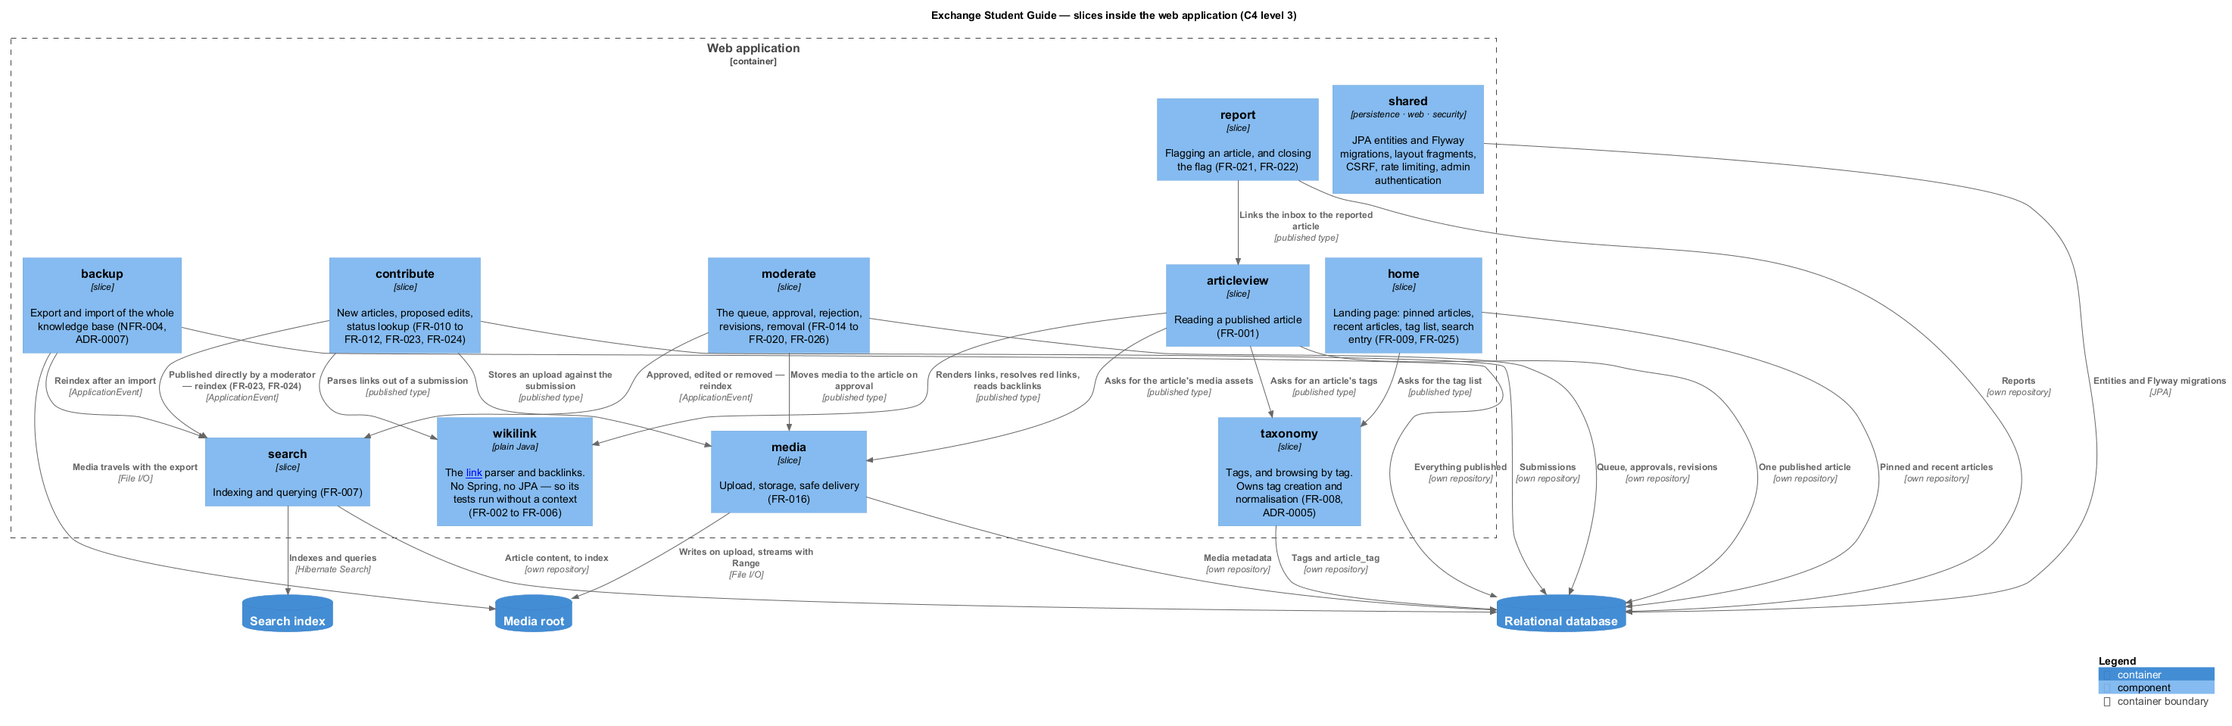
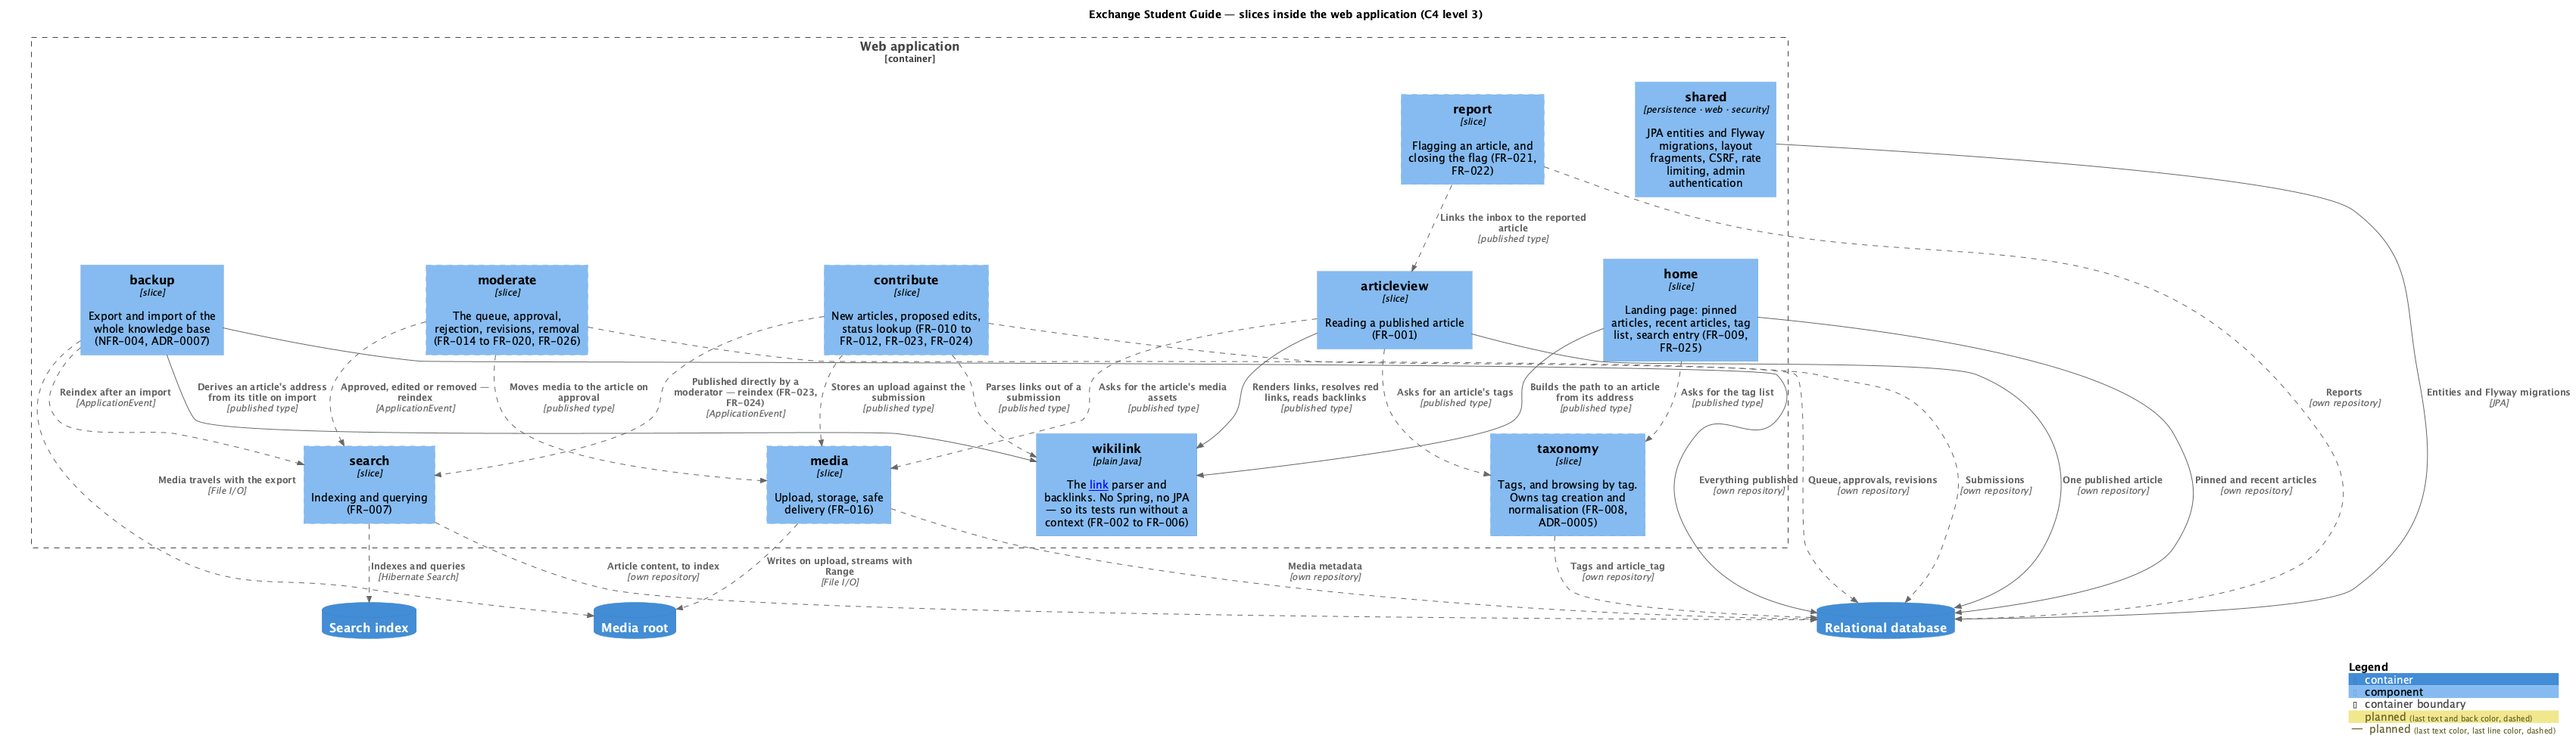
docs: draw the slices as the code has them beside the designed diagram
The designed c4-component gains the two arrows it lacked and draws what is not built
yet dashed. overview.md, the diagrams README and a dated paragraph in rubric.md say
what changed since 11 September; the rubric checkbox is left to the human.

diff --git a/docs/architecture/overview.md b/docs/architecture/overview.md
@@ -70,6 +70,15 @@ the security settings it must run with are in [security.md](security.md), "Artic
 
 ![Slices](../diagrams/out/c4-component.svg)
 
+Dashed boxes and arrows are designed and not built yet. What the code has today is drawn by the code
+itself, from the imports between slices, and rendered beside the designed one:
+
+![Slices as the code has them](../diagrams/out/c4-component-actual.svg)
+
+`home`, `articleview` and `backup` each use a published type of `wikilink` (`ArticleAddress`,
+`WikiLinkRenderer`), and `backup` also uses `shared`. `ModularityTest` writes that diagram and checks
+those three arrows are in it, so it cannot drift from the code without a test failing.
+
 Ten vertical slices plus `shared`. The list is owned by
 [architecture-rules.md](../ai/architecture-rules.md); the decision to structure the application this
 way, and the two alternatives weighed against it, are in
@@ -78,9 +87,10 @@ way, and the two alternatives weighed against it, are in
 **Declared in code since 10 September, and verified by the build.** Each of the eleven is a package
 under `in.ac.iitm.guide` carrying a `package-info.java`, which is all Spring Modulith needs to treat
 it as an application module — so the diagram above and the module list the build sees are the same
-list, and a slice added to one without the other fails a test. The packages are otherwise **empty**:
-this declares the boundary, it does not implement a slice. The first working slice is phase 2's
-first step ([02-skeleton.md](../roadmap/02-skeleton.md)).
+list, and a slice added to one without the other fails a test. On 10 September the packages were
+otherwise **empty**; since 25 September `home`, `articleview`, `wikilink` and `backup` have code,
+and the other six slices (`search`, `taxonomy`, `contribute`, `moderate`, `media`, `report`) stay
+empty until phase 3 ([02-skeleton.md](../roadmap/02-skeleton.md)).
 
 Worth stating because the alternative is the usual one: before this, `ModularityTest` called
 `ApplicationModules.of(...).verify()` against an application with no modules at all. It passed —

diff --git a/docs/course/rubric.md b/docs/course/rubric.md
@@ -55,6 +55,15 @@ slices exists yet to be described or enforced. The C4 level-3 figure is generate
 draw eleven boxes and no arrows. The row goes to `[x]` when the first two slices talk to each other
 through a published type, in phase 2 or 3, and the diagram can be regenerated from the code.
 
+**As of 26 September, both conditions hold in the repository.** `home`, `articleview` and `backup`
+import published types of `wikilink`, and `ModularityTest` passes with those imports. The same test
+now asks Modulith's `Documenter` for the component diagram and asserts that the three arrows are in
+it; `scripts/diagrams.sh` renders it as `docs/diagrams/out/c4-component-actual`. The designed
+`c4-component` figure marks what is not built yet as dashed and carries the two arrows it lacked.
+What has not changed is the submitted [design-doc.pdf](design-doc.pdf): it was built on 10 September
+and still shows the earlier figure and the empty packages, so the checkbox above stays the human's
+to move, with the repository as the evidence and the PDF as the record of what was handed in.
+
 ## Mid-demo — 5 marks (due 9 Oct 2026)
 
 | Criterion | Marks | Evidence | State |

diff --git a/docs/diagrams/src/README.md b/docs/diagrams/src/README.md
@@ -12,3 +12,9 @@ discarded it, which is why the rule above matters more here than for output nobo
 `scripts/diagrams.sh` fetches a pinned, checksummed PlantUML into a gitignored cache and runs it as
 a separate process. Nothing is added to a pom — PlantUML's artifact is GPL and this repository is
 MIT.
+
+**`c4-component-actual` has no source here.** It is the diagram the code draws of itself:
+`ModularityTest` asks Spring Modulith's `Documenter` to write it under `app/target/`, and
+`scripts/diagrams.sh` renders it beside `c4-component`, which is the designed one. Run `./mvnw test`
+before the script, which stops with a message when the file is missing. The two are meant to be
+compared: a dashed box or arrow in `c4-component` is designed and not built yet.
